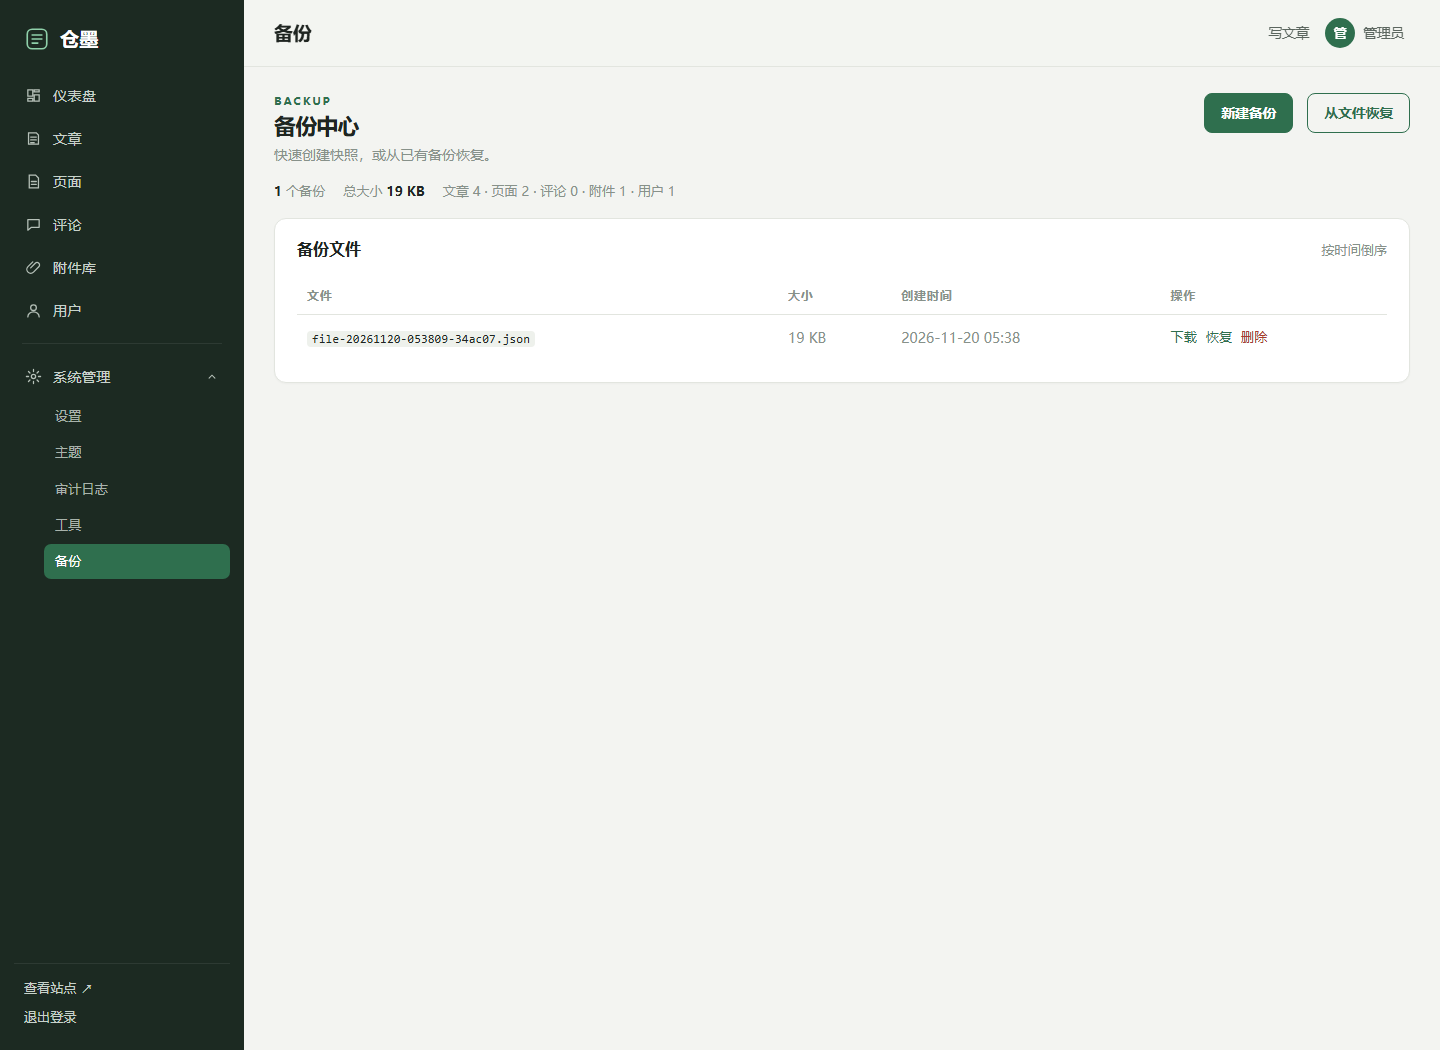
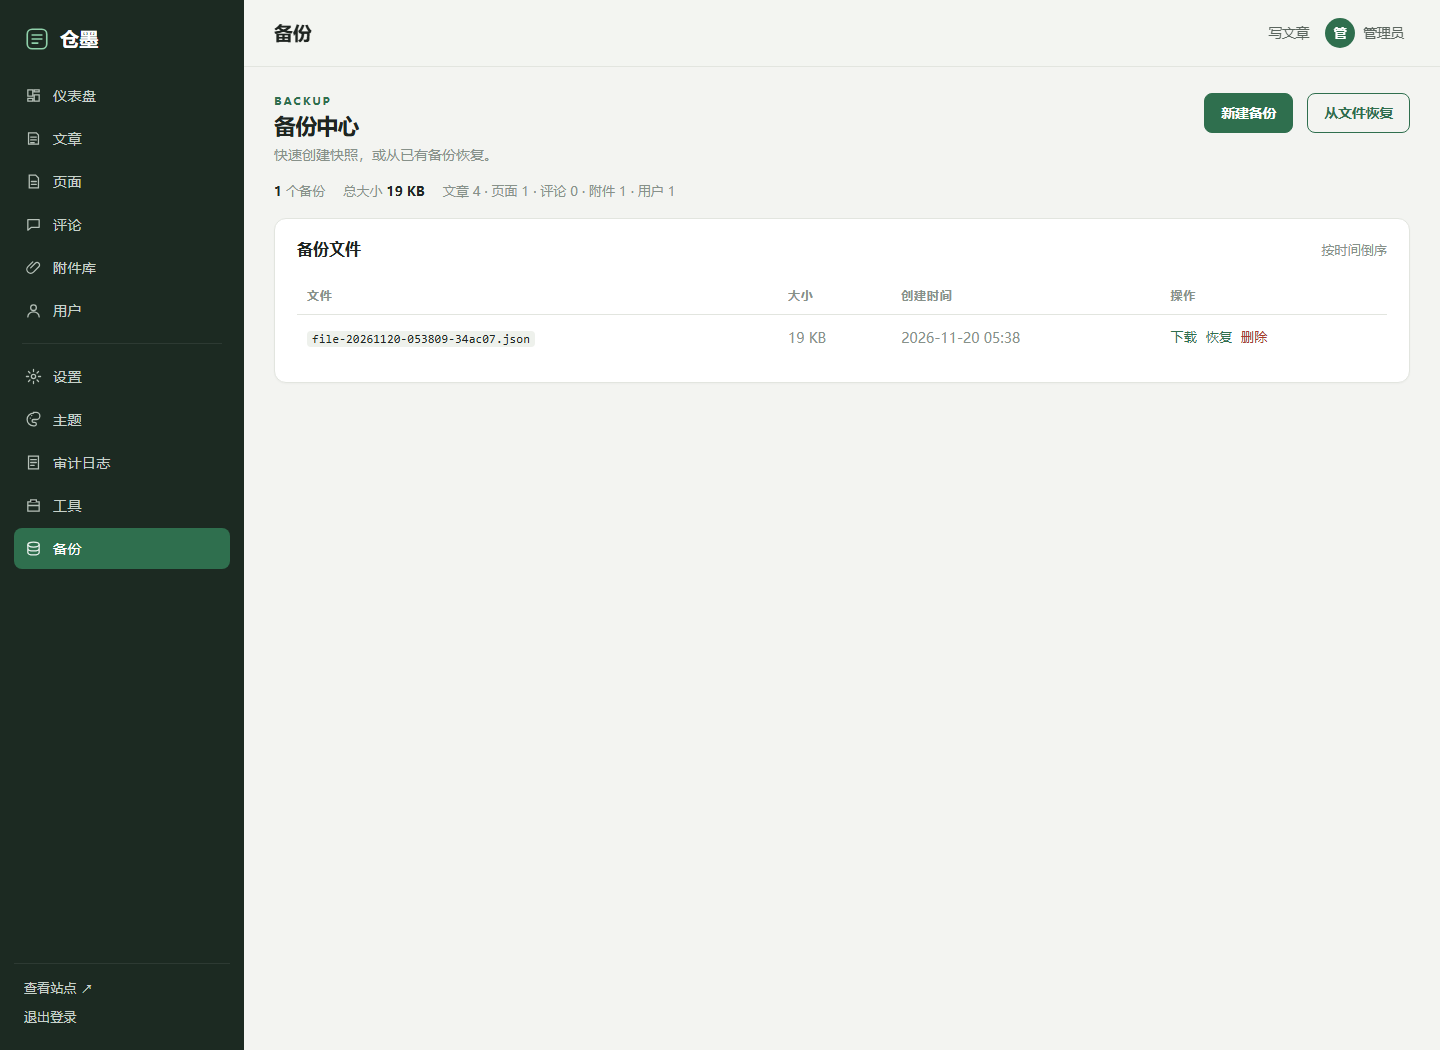
fix: v1.0.8 floating row menus and direct system nav
- render row menus as fixed viewport popovers instead of inline table panels
- position, flip and clamp menus against the viewport; close on outside scroll/resize
- keep row heights stable and avoid table scroll clipping
- remove the 系统管理 collapsible group; show settings/themes/audit/tools/backups directly

Changed region(s): [[0.0, 0.3962, 0.1562, 0.5486], [0.0312, 0.3352, 0.0938, 0.3657]]

diff --git a/resources/admin/templates/partials/sidebar.html b/resources/admin/templates/partials/sidebar.html
@@ -32,20 +32,26 @@
     {% endif %}
     <div class="nav-sep"></div>
     {% if is_admin %}
-    <details class="nav-menu"{% if active == "settings" or active == "themes" or active == "audit" or active == "tools" or active == "backups" %} open{% endif %}>
-      <summary>
-        <svg viewBox="0 0 24 24" aria-hidden="true"><circle cx="12" cy="12" r="3" fill="none" stroke="currentColor" stroke-width="1.8"/><path d="M12 2v3M12 19v3M2 12h3M19 12h3M4.9 4.9 7 7M17 17l2.1 2.1M19.1 4.9 17 7M7 17l-2.1 2.1" stroke="currentColor" stroke-width="1.8" stroke-linecap="round"/></svg>
-        <span>系统管理</span>
-        <svg class="nav-caret" viewBox="0 0 24 24" aria-hidden="true"><path d="m7 10 5 5 5-5" fill="none" stroke="currentColor" stroke-width="1.8" stroke-linecap="round"/></svg>
-      </summary>
-      <div class="nav-menu-pop">
-        <a href="/admin/settings" class="{% if active == "settings" %}active{% endif %}">设置</a>
-        <a href="/admin/themes" class="{% if active == "themes" %}active{% endif %}">主题</a>
-        <a href="/admin/audit" class="{% if active == "audit" %}active{% endif %}">审计日志</a>
-        <a href="/admin/tools" class="{% if active == "tools" %}active{% endif %}">工具</a>
-        <a href="/admin/backups" class="{% if active == "backups" %}active{% endif %}">备份</a>
-      </div>
-    </details>
+    <a href="/admin/settings" class="{% if active == "settings" %}active{% endif %}">
+      <svg viewBox="0 0 24 24" aria-hidden="true"><circle cx="12" cy="12" r="3" fill="none" stroke="currentColor" stroke-width="1.8"/><path d="M12 2v3M12 19v3M2 12h3M19 12h3M4.9 4.9 7 7M17 17l2.1 2.1M19.1 4.9 17 7M7 17l-2.1 2.1" stroke="currentColor" stroke-width="1.8" stroke-linecap="round"/></svg>
+      设置
+    </a>
+    <a href="/admin/themes" class="{% if active == "themes" %}active{% endif %}">
+      <svg viewBox="0 0 24 24" aria-hidden="true"><path d="M12 3a9 9 0 1 0 0 18h1.5a2.5 2.5 0 0 0 0-5H12a2 2 0 0 1 0-4h4a5 5 0 0 0 0-10h-4Z" fill="none" stroke="currentColor" stroke-width="1.8"/><circle cx="7.5" cy="10" r="1" fill="currentColor"/><circle cx="9.5" cy="6.5" r="1" fill="currentColor"/></svg>
+      主题
+    </a>
+    <a href="/admin/audit" class="{% if active == "audit" %}active{% endif %}">
+      <svg viewBox="0 0 24 24" aria-hidden="true"><path d="M5 3h14v18H5V3Z" fill="none" stroke="currentColor" stroke-width="1.8"/><path d="M8 8h8M8 12h8M8 16h5" stroke="currentColor" stroke-width="1.8" stroke-linecap="round"/></svg>
+      审计日志
+    </a>
+    <a href="/admin/tools" class="{% if active == "tools" %}active{% endif %}">
+      <svg viewBox="0 0 24 24" aria-hidden="true"><path d="M4 7h16v13H4V7Z" fill="none" stroke="currentColor" stroke-width="1.8"/><path d="M8 7V4h8v3M4 12h16" stroke="currentColor" stroke-width="1.8"/></svg>
+      工具
+    </a>
+    <a href="/admin/backups" class="{% if active == "backups" %}active{% endif %}">
+      <svg viewBox="0 0 24 24" aria-hidden="true"><path d="M12 3c4.4 0 8 1.6 8 3.5S16.4 10 12 10 4 8.4 4 6.5 7.6 3 12 3Z" fill="none" stroke="currentColor" stroke-width="1.8"/><path d="M4 6.5v11C4 19.4 7.6 21 12 21s8-1.6 8-3.5v-11M4 12c0 1.9 3.6 3.5 8 3.5s8-1.6 8-3.5" fill="none" stroke="currentColor" stroke-width="1.8"/></svg>
+      备份
+    </a>
     {% endif %}
   </nav>
   <div class="admin-sidebar-foot">

diff --git a/resources/admin/static/admin.js b/resources/admin/static/admin.js
@@ -350,6 +350,43 @@
     });
   });
 
+  // Row menus are fixed-position popovers so table overflow never clips them.
+  function closeRowMenus() {
+    document.querySelectorAll(".row-menu[open]").forEach(function (menu) { menu.open = false; });
+  }
+  function positionRowMenu(menu) {
+    var pop = menu.querySelector(".row-menu-pop");
+    var summary = menu.querySelector("summary");
+    if (!pop || !summary) return;
+    var rect = summary.getBoundingClientRect();
+    var width = pop.offsetWidth;
+    var height = pop.offsetHeight;
+    var left = Math.min(Math.max(8, rect.right - width), window.innerWidth - width - 8);
+    var top = rect.bottom + 6;
+    if (top + height > window.innerHeight - 8) {
+      top = Math.max(8, rect.top - height - 6);
+    }
+    pop.style.left = left + "px";
+    pop.style.top = top + "px";
+  }
+  document.querySelectorAll(".row-menu").forEach(function (menu) {
+    menu.addEventListener("toggle", function () {
+      if (!menu.open) return;
+      var pop = menu.querySelector(".row-menu-pop");
+      if (pop) pop.style.visibility = "hidden";
+      requestAnimationFrame(function () {
+        positionRowMenu(menu);
+        if (pop) pop.style.visibility = "";
+      });
+    });
+  });
+  window.addEventListener("resize", closeRowMenus);
+  window.addEventListener("scroll", function (event) {
+    var target = event.target;
+    if (target && target.closest && target.closest(".row-menu-pop")) return;
+    closeRowMenus();
+  }, true);
+
   var bulkForm = document.getElementById("posts-bulk-form");
   var bulkToggle = document.getElementById("posts-bulk-toggle");
   var bulkClose = document.getElementById("posts-bulk-close");

diff --git a/resources/admin/static/admin.css b/resources/admin/static/admin.css
@@ -749,3 +749,19 @@ label { display: grid; gap: 5px; font-size: .82rem; color: var(--a-soft); }
 .page-drawer .drawer-foot { flex: 0 0 auto; }
 /* v1.0.6 page drawer refinement */
 .page-drawer { width: min(420px, 100vw); }
+/* v1.0.8 floating row menus (viewport-positioned, never clipped by table scroll) */
+.row-menu-pop {
+  position: fixed; left: 0; top: 0; right: auto; bottom: auto;
+  z-index: 95; min-width: 172px; max-height: 70vh; overflow-y: auto;
+  background: #fff; border: 1px solid var(--a-border); border-radius: 10px;
+  padding: 7px; box-shadow: 0 18px 40px -18px rgba(0, 0, 0, .4);
+}
+.table-wrap .row-menu-pop {
+  position: fixed; margin-top: 0; min-width: 172px; padding: 7px;
+  border: 1px solid var(--a-border); border-radius: 10px;
+  box-shadow: 0 18px 40px -18px rgba(0, 0, 0, .4); grid-template-columns: 1fr;
+}
+.table-wrap .row-menu-pop a, .table-wrap .row-menu-pop button {
+  border: 0; text-align: left; padding: 7px 9px;
+}
+.table-wrap .row-menu-pop a:hover, .table-wrap .row-menu-pop button:hover { background: #eef1ec; }

diff --git a/docs/TESTING.md b/docs/TESTING.md
@@ -1,8 +1,8 @@
-# 仓墨测试与验收（v1.0.7）
+# 仓墨测试与验收（v1.0.8）
 
 > 本地环境：Windows 11 x64 · 仓颉 1.2.1 (cjnative) · Node.js 22.2.0 · Microsoft Edge  
-> 测试对象：v1.0.7。所有集成测试均在**全新数据目录**上执行，原始输出保存在 `docs/reports/`。  
-> Linux：GitHub Actions `ubuntu-latest` 已通过 `cjpm build` + `cjpm test`（run 44819707393）。
+> 测试对象：v1.0.8。所有集成测试均在**全新数据目录**上执行，原始输出保存在 `docs/reports/`。  
+> Linux：GitHub Actions `ubuntu-latest` 已通过 `cjpm build` + `cjpm test`（run 见 GitHub Actions）。
 
 ## 1. 一键运行
 
@@ -45,9 +45,9 @@ node tests\security.mjs
 
 > 本轮排查、修复与五维验收明细见 [audit-v105.md](reports/audit-v105.md)。
 
-另执行 **16 项 v1.0.7 浏览器审计**（Edge/CDP）：页面抽屉字段、窄幅尺寸、原位保存、编辑器抽屉、设置标签、附件/用户密度与全局 JS 异常，全部通过，见 [ui-v107.txt](reports/ui-v107.txt)。
+另执行 **10 项 v1.0.8 浏览器审计**（Edge/CDP）：行菜单浮层定位、视口避让、行高不变、外部点击关闭、底部翻转、侧栏入口与全局 JS 异常，全部通过，见 [ui-v108.txt](reports/ui-v108.txt)。
 
-### v1.0.1 ~ v1.0.7 新增与回归覆盖
+### v1.0.1 ~ v1.0.8 新增与回归覆盖
 
 - 附件库：页面渲染、旧“媒体库”文案移除、JSON 上传、类型筛选、文件名搜索、选择器数据、删除
 - 编辑器：封面/标签 UI、AJAX 新建分类、带分类/标签/封面的文章保存
@@ -59,6 +59,7 @@ node tests\security.mjs
 - v1.0.5：定时发布权限、中文文件名、复制为草稿、相关文章开关、设置项向后兼容
 - v1.0.6：发布抽屉、页面内联抽屉、快速保存接口、设置横向标签、附件/用户密度
 - v1.0.7：页面抽屉补路径/分类/标签，宽度收窄至 420px
+- v1.0.8：行菜单改视口浮层、自动避让/翻转，移除侧栏「系统管理」折叠
 - 恢复后会话失效，必须重新登录
 
 ### 既有覆盖
@@ -104,7 +105,7 @@ cjlint -f .\src -o .\docs\reports\cjlint -r json
 
 - **Linux**：需要 OpenSSL 开发库；本地 Windows 测试机无法执行 Linux 二进制，Linux 构建/单测由 GitHub Actions 验证。
 - **HTTPS/HSTS**：进程内无 TLS；由 Caddy/Nginx 终止。
-- **邮件/TOTP/OAuth/插件/对象存储**：v1.0.7 不含。
+- **邮件/TOTP/OAuth/插件/对象存储**：v1.0.8 不含。
 - **长时间浸泡**：未做 24h 稳定性测试。
 - **恶意文件**：未做图片解码模糊测试。
 - **浏览器兼容**：Edge/Chromium 验证；Firefox/Safari 未逐一测试。

diff --git a/docs/GITHUB.md b/docs/GITHUB.md
@@ -4,9 +4,9 @@
 
 - ✅ 仓库：<https://github.com/chenxixingyu/cangmo-cms>（2026-11-18 由 `cangmo-blog` 更名，旧地址 301 重定向）
 - ✅ `main` 已推送（最新提交以仓库为准）
-- ✅ 标签 `v1.0.7` 已推送
-- ✅ CI 双平台：Windows + Ubuntu，`cjpm build` + `cjpm test`（run 44819707393 全绿）
-- ✅ Release `v1.0.7` 已发布，附 `cangmo-v1.0.7-source.zip` 与 `cangmo-v1.0.7.bundle`
+- ✅ 标签 `v1.0.8` 已推送
+- ✅ CI 双平台：Windows + Ubuntu，`cjpm build` + `cjpm test`（run 见 Actions）
+- ✅ Release `v1.0.8` 已发布，附 `cangmo-v1.0.8-source.zip` 与 `cangmo-v1.0.8.bundle`
 - ✅ 私密漏洞报告、Secret scanning、Push protection、Dependabot alerts 已启用
 - ✅ Topics、描述、Discussions 已配置
 - ⚠ 许可证为自定义许可证，GitHub 识别为 “Other”（非 OSI 认证）
@@ -32,23 +32,23 @@
 cd E:\mianban\cangmo
 git remote add origin https://github.com/chenxixingyu/cangmo-cms.git
 git push -u origin main
-git push origin v1.0.7
+git push origin v1.0.8
 ```
 
 推送 `main` 会触发 CI（`.github/workflows/ci.yml`）。  
-推送 `v1.0.7` 标签会触发 `.github/workflows/release.yml`，自动创建
+推送 `v1.0.8` 标签会触发 `.github/workflows/release.yml`，自动创建
 GitHub Release 并附加源码 zip 与 git bundle。
 
 ## 发布后检查
 
 - [ ] Actions 中 `CI` 为绿色
-- [ ] Actions 中 `Release` 成功，Release 页面有 `cangmo-v1.0.7-source.zip`
-      与 `cangmo-v1.0.7.bundle`
+- [ ] Actions 中 `Release` 成功，Release 页面有 `cangmo-v1.0.8-source.zip`
+      与 `cangmo-v1.0.8.bundle`
 - [ ] 仓库 About 描述与 Topics 已填写
 - [ ] Issues / Discussions 已启用
 - [ ] 分支保护：`main` 要求 PR、至少 1 个审查、禁止强推
 - [ ] 私密漏洞报告（Private vulnerability reporting）已启用
-- [ ] Releases 中 v1.0.7 标记为 Latest
+- [ ] Releases 中 v1.0.8 标记为 Latest
 - [ ] README 徽章显示正常
 
 ## 版本发布流程
@@ -58,16 +58,16 @@ GitHub Release 并附加源码 zip 与 git bundle。
 3. 创建带注释标签：
 
    ```powershell
-   git tag -a v1.0.7 -m "Cangmo v1.0.7"
-   git push origin v1.0.7
+   git tag -a v1.0.8 -m "Cangmo v1.0.8"
+   git push origin v1.0.8
    ```
 
 4. 等待 Release workflow，检查附件与说明
 5. 如 Actions 不可用，可手动创建 Release 并上传：
 
    ```powershell
-   git archive --format=zip --output=cangmo-v1.0.7-source.zip HEAD
-   git bundle create cangmo-v1.0.7.bundle --all
+   git archive --format=zip --output=cangmo-v1.0.8-source.zip HEAD
+   git bundle create cangmo-v1.0.8.bundle --all
    ```
 
 ## 仓库设置建议

diff --git a/docs/releases/v1.0.8.md b/docs/releases/v1.0.8.md
@@ -1,0 +1,30 @@
+# 仓墨 v1.0.8
+
+行操作菜单浮层修复与侧栏简化。
+
+## 修复
+
+- 「更多 / 操作」菜单不再在表格行内展开，不会撑高行高或挤压列表。
+- 改为 `position: fixed` 视口浮层：
+  - 按触发按钮定位，右对齐；
+  - 自动避让视口边缘；
+  - 底部行菜单自动向上翻转；
+  - 不被表格横向滚动容器裁切。
+- 点击外部、页面滚动、窗口缩放自动关闭；浮层内部滚动不会误关。
+- 菜单功能完整保留：查看前台、复制为草稿、下线、删除等。
+
+## 布局
+
+- 移除侧栏「系统管理」折叠组及「系统管理」文案。
+- 设置、主题、审计日志、工具、备份直接展示，入口和权限不变。
+
+## 验证
+
+- 21 个单元测试 + 156 项集成/安全断言 = **177 项**
+- 10 项 v1.0.8 浏览器审计
+- Windows + Ubuntu CI
+
+## 版权
+
+Copyright (c) 2026 宸熙星语 (chenxixingyu).  
+Cangmo Source-Available License 1.0，详见 [LICENSE](https://github.com/chenxixingyu/cangmo-cms/blob/main/LICENSE)。

diff --git a/CHANGELOG.md b/CHANGELOG.md
@@ -1,5 +1,20 @@
 # Changelog
 
+## v1.0.8 — 2026-11-21
+
+行操作菜单浮层修复与侧栏简化。
+
+### 修复
+- 「更多 / 操作」菜单不再在表格行内联展开，避免撑高行高、挤压列表。
+- 改为 `position: fixed` 视口浮层，按触发按钮定位，右对齐并自动避让视口边缘；底部行菜单向上翻转。
+- 浮层不再被 `.table-wrap` 横向滚动容器裁切。
+- 点击外部、页面滚动或窗口缩放自动关闭；浮层内部滚动不会误关闭。
+- 菜单项（查看前台 / 复制为草稿 / 下线 / 删除等）全部保留。
+
+### 布局
+- 移除侧栏「系统管理」折叠组及该文案。
+- 设置、主题、审计日志、工具、备份直接展示，功能入口不变。
+
 ## v1.0.7 — 2026-11-21
 
 页面内联编辑面板补全字段。

diff --git a/README.md b/README.md
@@ -1,4 +1,4 @@
-# 仓墨 Cangmo v1.0.7
+# 仓墨 Cangmo v1.0.8
 
 > 用**仓颉语言**从零构建的现代、安全的博客 / CMS 系统。  
 > A modern, secure blog engine written natively in Cangjie.
@@ -90,7 +90,7 @@ $env:CANGMO_SETUP_TOKEN = "my-setup-token"
 ## 功能菜单
 
 完整功能清单、版本分层与可选模块见 **[docs/FEATURES.md](docs/FEATURES.md)**。  
-v1.0.7 默认交付全部 ✅ 功能；标 ◇ 的模块可按需关闭，标 ○ 的模块在路线图中。
+v1.0.8 默认交付全部 ✅ 功能；标 ◇ 的模块可按需关闭，标 ○ 的模块在路线图中。
 
 ## 常用命令
 

diff --git a/docs/reports/test-report.md b/docs/reports/test-report.md
@@ -1,9 +1,9 @@
-# 仓墨测试报告（v1.0.7）
+# 仓墨测试报告（v1.0.8）
 
 - 日期：2026-11-21
 - 本地环境：Windows 11 x64 / 仓颉 1.2.1 / Node.js 22.2.0
 - Linux：GitHub Actions Ubuntu（`cjpm build` + `cjpm test`）
-- 结论：**通过**。21 个单元测试 + 156 项集成/安全断言，合计 **177 项**；另 16 项 v1.0.7 浏览器审计通过；静态分析无高危项。
+- 结论：**通过**。21 个单元测试 + 156 项集成/安全断言，合计 **177 项**；另 10 项 v1.0.8 浏览器审计通过；静态分析无高危项。
 
 | 套件 | 结果 | 文件 |
 | --- | --- | --- |

diff --git a/docs/API.md b/docs/API.md
@@ -65,7 +65,7 @@ Authorization: Bearer cmo_xxxxxxxxxxxxxxxxxxxxxxxx
   "name": "仓墨",
   "description": "……",
   "url": "https://example.com",
-  "version": "1.0.7",
+  "version": "1.0.8",
   "locale": "zh-CN"
 }
 ```
